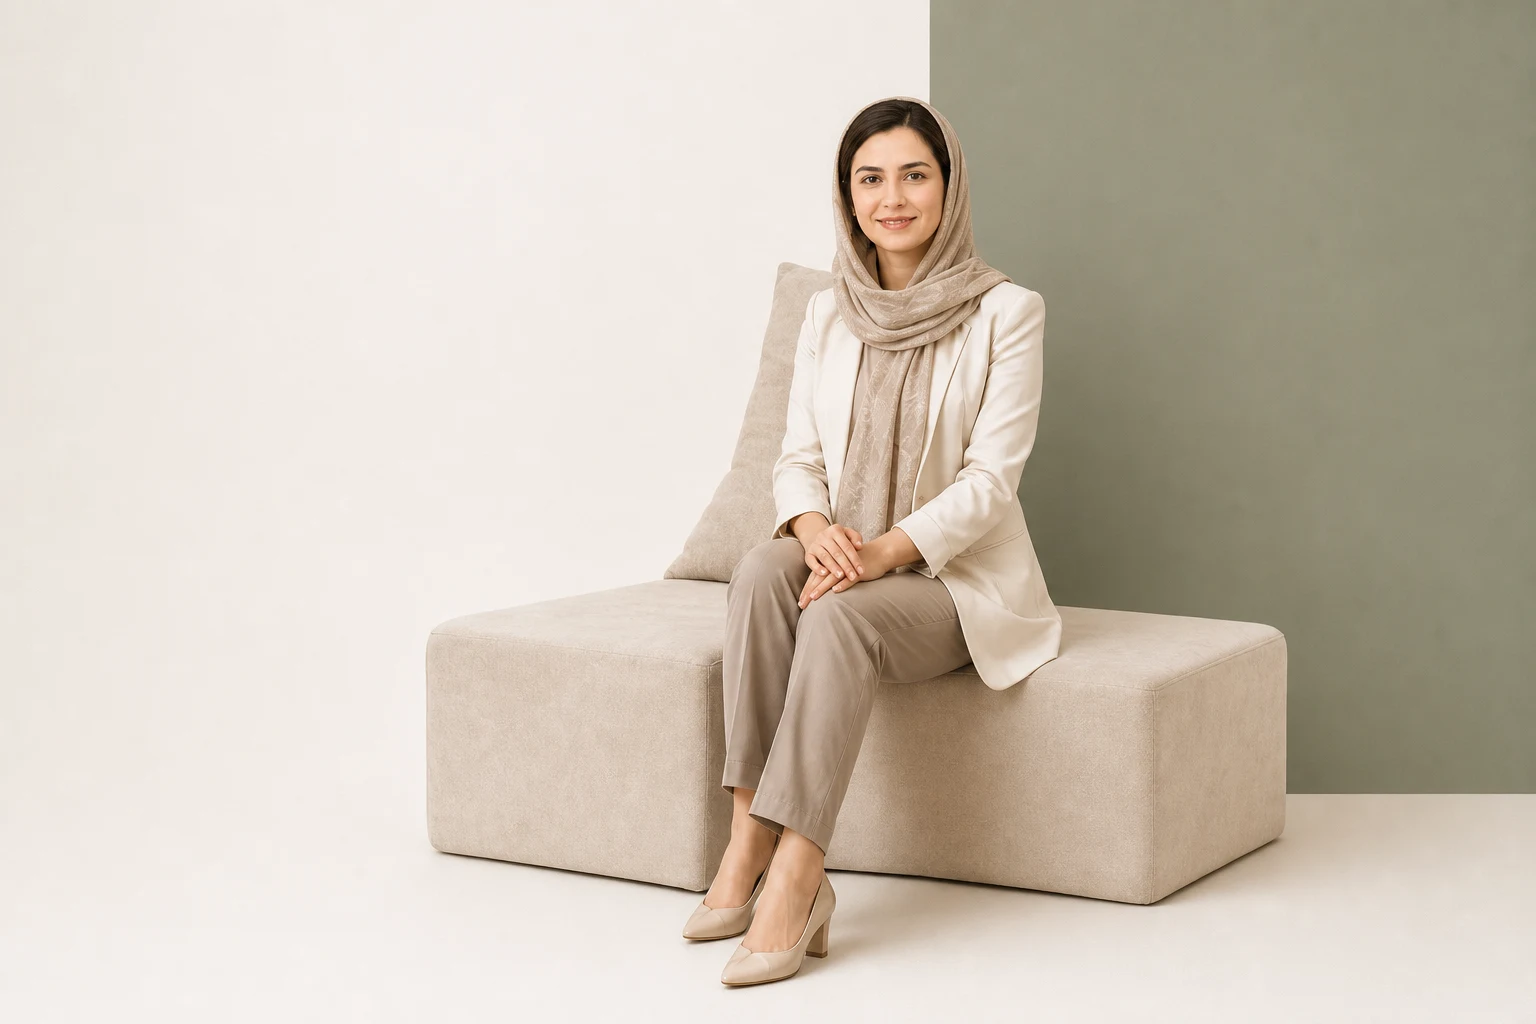
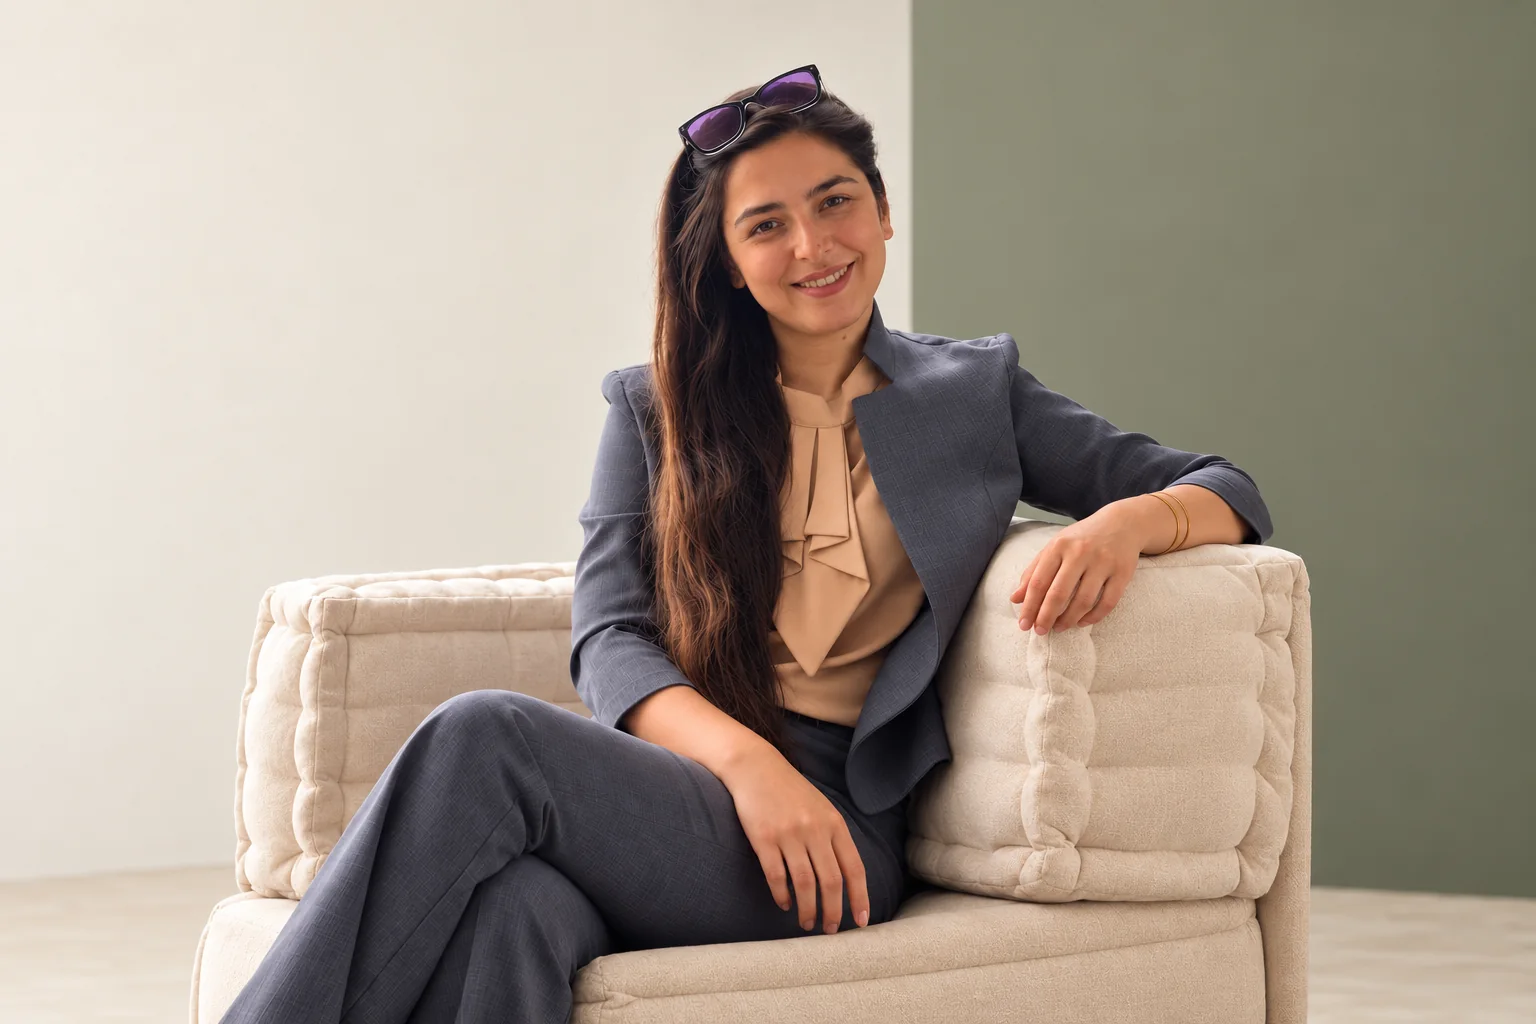
Update changes

diff --git a/src/content/profile.ts b/src/content/profile.ts
@@ -7,18 +7,18 @@ export const profile = {
     name: l("Haniyeh Ahmadi", "هانیه احمدی"),
     shortName: "HA",
     role: l(
-      "Cognitive rehabilitation specialist & clinical neuroscience researcher",
-      "متخصص بازتوانی شناختی و پژوهشگر علوم اعصاب بالینی",
+      "Cognitive neuroscientist, cognitive rehabilitation specialist & clinical neuroscience researcher",
+      "پژوهشگر علوم اعصاب شناختی و متخصص بازتوانی شناختی",
     ),
     location: l("Tehran, Iran", "تهران، ایران"),
   },
   hero: {
-    eyebrow: l("Cognitive science & rehabilitation", "علوم شناختی و بازتوانی"),
+    eyebrow: l("Cognitive neuroscience, assessment & rehabilitation", "علوم اعصاب شناختی، ارزیابی و بازتوانی"),
     lead: l("From brain\ninsights", "از شناخت مغز"),
     stroke: l("to better\nlives.", "تا زندگی بهتر"),
     body: l(
-      "I connect clinical assessment, brain mapping and evidence-informed rehabilitation to support cognitive function across neurological and mental-health settings.",
-      "میان ارزیابی بالینی، نقشهبرداری مغز و بازتوانی مبتنی بر شواهد پیوند میسازم تا عملکرد شناختی در موقعیتهای عصبشناختی و سلامت روان بهتر شود.",
+      "I am a cognitive neuroscientist and cognitive rehabilitation specialist connecting clinical assessment, brain mapping, EEG/ERP and evidence-informed rehabilitation across neurological and mental-health settings in Tehran.",
+      "من پژوهشگر علوم اعصاب شناختی و متخصص بازتوانی شناختی هستم و ارزیابی بالینی، نقشهبرداری مغز، EEG/ERP و بازتوانی مبتنی بر شواهد را در حوزه سلامت مغز و روان در تهران به هم پیوند میدهم.",
     ),
     primaryCta: l("Explore my work", "مرور فعالیتها"),
     secondaryCta: l("Download CV", "دریافت رزومه"),
@@ -38,8 +38,8 @@ export const profile = {
       "از مشاهدهی دقیق تا مراقبتی معنادار",
     ),
     body: l(
-      "I am a cognitive rehabilitation specialist with a background in clinical psychology and cognitive science. My work spans EEG and ERP recording and interpretation, psychometric assessment, neuromodulation, and the design of cognitive rehabilitation protocols. I am especially interested in how rigorous assessment can lead to more thoughtful, human-centered intervention.",
-      "مسیر حرفهای من از روانشناسی بالینی آغاز شد و در علوم شناختی و بازتوانی شناختی ادامه پیدا کرد. امروز در مرز ارزیابی روانسنجی، ثبت و تفسیر EEG و ERP، تحریک غیرتهاجمی مغز و طراحی پروتکلهای بازتوانی کار میکنم؛ با این باور که مداخلهی خوب، از سنجش دقیق و فهم انسانی آغاز میشود.",
+      "I am a cognitive neuroscientist and cognitive rehabilitation specialist with a background in clinical psychology and cognitive science. My work spans EEG and ERP recording and interpretation, QEEG-informed brain mapping, psychometric and cognitive assessment, neuromodulation, and the design of individualized cognitive rehabilitation protocols.",
+      "مسیر حرفهای من از روانشناسی بالینی آغاز شد و در علوم اعصاب شناختی و بازتوانی شناختی ادامه پیدا کرد. امروز در زمینه ثبت و تفسیر EEG و ERP، نقشه مغزی مبتنی بر QEEG، ارزیابی شناختی و روانسنجی، نورومدولیشن و طراحی پروتکلهای فردمحور بازتوانی شناختی فعالیت میکنم.",
     ),
     principles: [
       l("Evidence-informed practice", "کار مبتنی بر شواهد"),
@@ -51,6 +51,15 @@ export const profile = {
     videoUnavailable: l("Introduction video coming soon", "ویدئوی معرفی بهزودی"),
   },
   education: [
+    {
+      date: l("2022–Present", "۱۴۰۱–اکنون"),
+      degree: l("Ph.D. Cognitive Science", "دکترای علوم شناختی"),
+      place: l("University of Tehran", "دانشگاه تهران"),
+      detail: l(
+        "Doctoral studies in cognitive science, with a focus on cognitive assessment, brain mapping and rehabilitation.",
+        "تحصیل در مقطع دکترا در رشته علوم شناختی با تمرکز بر ارزیابی شناختی، نقشهبرداری مغز و بازتوانی.",
+      ),
+    },
     {
       date: l("2019–2022", "۱۳۹۸–۱۴۰۱"),
       degree: l("M.Sc. Cognitive Science — Cognitive Rehabilitation", "کارشناسی ارشد علوم شناختی — بازتوانی شناختی"),
@@ -91,7 +100,7 @@ export const profile = {
     },
     {
       date: l("Feb 2022 — Present", "بهمن ۱۴۰۰ — اکنون"),
-      role: l("Manager, Assessment & Rehabilitation", "مدیر واحد ارزیابی و بازتوانی"),
+      role: l("Head of Brain Mapping, Diagnosis & Assessment", "مدیر بخش نقشه مغزی، تشخیص و ارزیابی"),
       place: l("Atieh Clinical Neuroscience Center", "مرکز علوم اعصاب بالینی آتیه"),
       detail: l(
         "Developing and applying rTMS, tDCS and cognitive-training protocols informed by QEEG and psychometric assessment.",
@@ -151,10 +160,10 @@ export const profile = {
     { label: "LinkedIn", href: "https://www.linkedin.com/in/haniyeh-ahmadi-segazi" },
   ],
   seo: {
-    title: l("Haniyeh Ahmadi | Cognitive Rehabilitation & Clinical Neuroscience", "هانیه احمدی | بازتوانی شناختی و علوم اعصاب بالینی"),
+    title: l("Haniyeh Ahmadi | Cognitive Neuroscientist & Cognitive Rehabilitation Specialist", "هانیه احمدی | پژوهشگر علوم اعصاب شناختی و متخصص بازتوانی شناختی"),
     description: l(
-      "Portfolio of Haniyeh Ahmadi, a cognitive rehabilitation specialist and clinical neuroscience researcher working across EEG/ERP, neuromodulation and cognitive assessment.",
-      "وبسایت حرفهای هانیه احمدی، متخصص بازتوانی شناختی و پژوهشگر علوم اعصاب بالینی در حوزههای EEG/ERP، تحریک مغزی و ارزیابی شناختی.",
+      "Official portfolio of Haniyeh Ahmadi, a cognitive neuroscientist and cognitive rehabilitation specialist in Tehran working across EEG/ERP, QEEG brain mapping, cognitive assessment, psychometrics, neuromodulation and evidence-informed rehabilitation.",
+      "وبسایت رسمی هانیه احمدی، پژوهشگر علوم اعصاب شناختی و متخصص بازتوانی شناختی در تهران؛ فعال در حوزههای نقشه مغزی و QEEG، EEG/ERP، ارزیابی شناختی و روانسنجی، نورومدولیشن و بازتوانی مبتنی بر شواهد.",
     ),
   },
 } as const;

diff --git a/src/app/[locale]/page.tsx b/src/app/[locale]/page.tsx
@@ -21,7 +21,7 @@ export default async function PortfolioPage({ params }: { params: Promise<{ loca
     "@graph": [
       { "@type": "WebSite", "@id": `${siteUrl}/#website`, url: siteUrl, name: profile.identity.name.en, inLanguage: ["en", "fa"] },
       { "@type": "ProfilePage", "@id": `${siteUrl}/${locale}/#profile`, url: `${siteUrl}/${locale}`, name: profile.seo.title[locale], inLanguage: locale, mainEntity: { "@id": `${siteUrl}/#person` } },
-      { "@type": "Person", "@id": `${siteUrl}/#person`, name: profile.identity.name.en, alternateName: profile.identity.name.fa, jobTitle: profile.identity.role.en, email: `mailto:${profile.contact.emails[0]}`, telephone: profile.contact.phone, alumniOf: { "@type": "CollegeOrUniversity", name: "University of Tehran" }, knowsLanguage: ["Persian", "English", "Turkish"], sameAs: profile.socials.map(s => s.href) },
+      { "@type": "Person", "@id": `${siteUrl}/#person`, name: profile.identity.name.en, alternateName: profile.identity.name.fa, jobTitle: profile.identity.role.en, email: `mailto:${profile.contact.emails[0]}`, telephone: profile.contact.phone, address: { "@type": "PostalAddress", addressLocality: "Tehran", addressCountry: "IR" }, alumniOf: { "@type": "CollegeOrUniversity", name: "University of Tehran" }, hasCredential: { "@type": "EducationalOccupationalCredential", credentialCategory: "Ph.D. Cognitive Science", educationalLevel: "Doctoral" }, knowsAbout: ["Cognitive neuroscience", "Cognitive rehabilitation", "Cognitive assessment", "Brain mapping", "QEEG", "EEG", "ERP", "Neuromodulation", "Psychometrics"], knowsLanguage: ["Persian", "English", "Turkish"], sameAs: profile.socials.map(s => s.href) },
     ],
   };
   return <><Header locale={locale} /><main><Hero locale={locale} /><About locale={locale} /><Experience locale={locale} /><Expertise locale={locale} /><SelectedWork locale={locale} /><MethodsLogoLoop locale={locale} /><Contact locale={locale} /></main><Footer locale={locale} /><script type="application/ld+json" dangerouslySetInnerHTML={{ __html: JSON.stringify(jsonLd).replace(/</g, "\\u003c") }} /></>;

diff --git a/src/app/[locale]/layout.tsx b/src/app/[locale]/layout.tsx
@@ -1,4 +1,4 @@
-import type { Metadata } from "next";
+import type { Metadata, Viewport } from "next";
 import { notFound } from "next/navigation";
 import { profile } from "@/content/profile";
 import { dirFor, isLocale, locales, type Locale } from "@/lib/i18n";
@@ -18,6 +18,8 @@ export function generateStaticParams() {
   return locales.map((locale) => ({ locale }));
 }
 
+export const viewport: Viewport = { themeColor: "#f6f1e8" };
+
 export async function generateMetadata({ params }: { params: Promise<{ locale: string }> }): Promise<Metadata> {
   const { locale: value } = await params;
   if (!isLocale(value)) return {};
@@ -25,11 +27,15 @@ export async function generateMetadata({ params }: { params: Promise<{ locale: s
   const title = profile.seo.title[locale];
   const description = profile.seo.description[locale];
   const canonical = `${siteUrl}/${locale}`;
+  const keywords = locale === "fa"
+    ? ["علوم اعصاب شناختی", "پژوهشگر علوم اعصاب شناختی", "متخصص بازتوانی شناختی", "ارزیابی شناختی", "نقشه مغزی", "QEEG", "EEG", "ERP", "نورومدولیشن", "تهران"]
+    : ["cognitive neuroscientist", "cognitive rehabilitation specialist", "cognitive assessment", "QEEG brain mapping", "EEG", "ERP", "neuromodulation", "Tehran"];
 
   return {
     metadataBase: new URL(siteUrl),
     title,
     description,
+    keywords,
     alternates: {
       canonical,
       languages: { en: `${siteUrl}/en`, fa: `${siteUrl}/fa`, "x-default": `${siteUrl}/en` },

diff --git a/src/components/Hero.tsx b/src/components/Hero.tsx
@@ -61,7 +61,7 @@ export default function Hero({ locale }: { locale: Locale }) {
             <a className="button button-dark" href="#work">{h.primaryCta[locale]}<Arrow size={17} /></a>
             <a className="text-button" href="/cv/haniyeh-ahmadi-cv.pdf" download><ArrowDown size={18} />{h.secondaryCta[locale]}</a>
           </div>
-          <div className="hero-credential"><span className="mini-portrait"><Image src="/images/haniyeh/source.jpg" alt="" fill sizes="48px" /></span><span>{locale === "fa" ? "روانشناسی بالینی · علوم شناختی · دانشگاه تهران" : "Clinical psychology · Cognitive science · University of Tehran"}</span></div>
+          <div className="hero-credential"><span className="mini-portrait"><Image src="/images/haniyeh/source.jpg" alt="" fill sizes="48px" /></span><span>{locale === "fa" ? "دکترای علوم شناختی · روانشناسی بالینی · دانشگاه تهران" : "Ph.D. Cognitive Science · Clinical psychology · University of Tehran"}</span></div>
         </div>
         <div className="hero-visual">
           <div className="sage-plane" />

diff --git a/src/app/globals.css b/src/app/globals.css
@@ -155,7 +155,7 @@ button, a { -webkit-tap-highlight-color: transparent; }
 .methods { padding-block: 28px 23px; }
 .methods .eyebrow { margin-inline-start: 5%; margin-bottom: 10px; }
 .logo-loop { position: relative; width: 100%; overflow: hidden; mask-image: linear-gradient(to right, transparent, black 6%, black 94%, transparent); }
-.logo-loop::before { content: ""; position: absolute; z-index: -1; inset: 0; border: 1px solid var(--bronze); border-radius: 50%; opacity: .75; }
+.logo-loop::before { display: none; }
 .logo-loop-track { width: max-content; padding-block: 18px; display: flex; align-items: center; animation: logo-scroll 28s linear infinite; }
 .logo-loop:hover .logo-loop-track { animation-play-state: paused; }
 .logo-loop-item { min-width: 150px; display: flex; align-items: center; justify-content: center; gap: 9px; color: var(--forest); font-size: 11.5px; font-weight: 600; }
